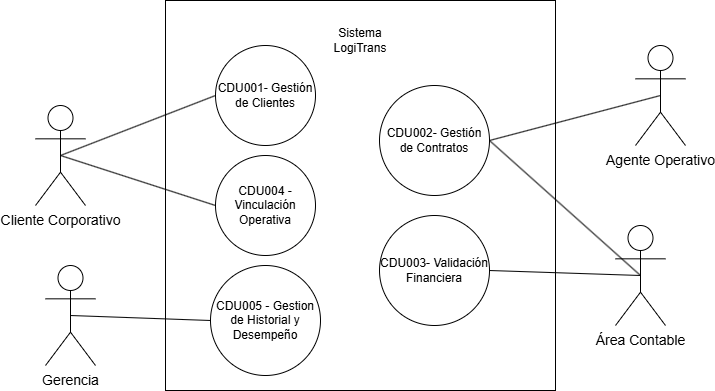
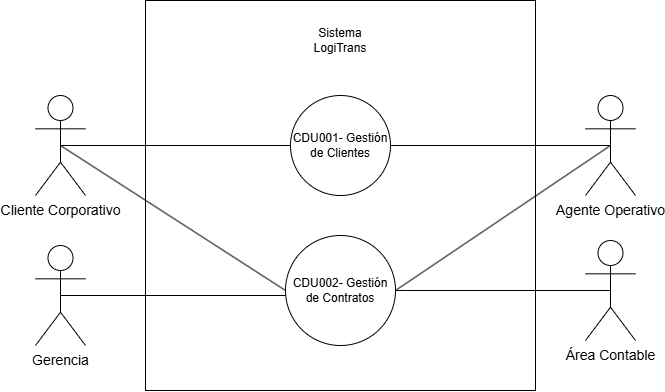
20204578: (Doc) CDu1

diff --git a/Documentation/Casos de Uso/cdu1.md b/Documentation/Casos de Uso/cdu1.md
@@ -1,119 +1,298 @@
 # 1. Descripción de actores de Gestión de Clientes y Contratos
 ![!\[alt text\](image.png)](../images/CDU1/actores.png)
 
-# caso de uso de alto nivel
+-------------------------------------------------------------------
+# Caso de Uso de Alto Nivel
 
 ![alt text](<../images/CDU1/dcu alto nivel.png>)
 
-# Primera descomposicion
+-------------------------------------------------------------------
+# Primera Descomposición
 ## Procesos Críticos Generales
 
-CDU001 – Gestión de Clientes
-CDU002 – Gestión de Contratos
-CDU003 – Validación Financiera
-CDU004 – Vinculación Operativa
-CDU005 – Gestión de Historial y Desempeño
+- **CDU001** – Gestión de Clientes
+- **CDU002** – Gestión de Contratos y Tarifas
+
+> **Nota:** Los procesos de Validación Financiera, Vinculación Operativa e Historial y Desempeño se modelan como casos de uso expandidos dentro de CDU002, ya que forman parte del ciclo de vida de un contrato y no constituyen procesos críticos independientes en la primera descomposición.
 
 ![alt text](<../images/CDU1/Primera descomposicion.png>)
 
-# Casos expandidos
+-------------------------------------------------------------------
 
-## CDU001 - Gestion de Clienes
+# Casos Expandidos
 
-CDU001.1 - Registrar clientes
-CDU001.2 - Consultar Clientes
-CDU001.3 - Modificar Cliente
-CDU001.4 - Gestionar Credenciales
-CDU001.5 - Bloquear / Desactivar Cliente
+## CDU001 – Gestión de Clientes
 
+- CDU001.1 – Registrar Cliente
+- CDU001.2 – Consultar Cliente
+- CDU001.3 – Modificar Cliente
+- CDU001.4 – Gestionar Credenciales
+- CDU001.5 – Bloquear / Desactivar Cliente
 
-## diagrama de expandidos para el CDU001.1
-![aqui se agrega diagrama](<../images/CDU1/CDU001.1 REGISTRAR CLIENTES.png>)
+-------------------------------------------------------------------
+## Diagrama de expandidos para el CDU001
 
-| Campo                 | Detalle                                                                                                                                                                                           |
-| --------------------- | ------------------------------------------------------------------------------------------------------------------------------------------------------------------------------------------------- |
-| **Nombre**            | Registrar Cliente                                                                                                                                                                                 |
-| **Código**            | CDU001.1                                                                                                                                                                                          |
-| **Actores**           | Agente Operativo                                                                                                                                                                                  |
-| **Descripción**       | Permite registrar en el sistema los datos fiscales, contactos clave y categoría de riesgo de un cliente corporativo.                                                                              |
-| **Precondiciones**    | El cliente no debe estar previamente registrado.                                                                                                                                                  |
-| **Postcondiciones**   | Cliente registrado correctamente o proceso cancelado.                                                                                                                                             |
-| **Flujo Principal**   | 1. Ingresar NIT y razón social.<br>2. Registrar contactos clave.<br>3. Asignar categoría de riesgo.<br>4. Validar información obligatoria.<br>5. Guardar datos.<br>6. Confirmar registro exitoso. |
-| **Flujos Alternos**   | **FA1:** NIT duplicado → Mostrar mensaje y cancelar.<br>**FA2:** Campos obligatorios vacíos → Solicitar corrección.                                                                               |
-| **Reglas de Negocio** | NIT único y válido.<br>Categoría de riesgo obligatoria.                                                                                                                                           |
-| **Reglas de Calidad** | Validación en tiempo real.<br>Tiempo de respuesta menor a 3 segundos.                                                                                                                             |
+> Este diagrama muestra todos los casos de uso expandidos del CDU001 con sus relaciones:
+> - **Agente Operativo** interactúa con: CDU001.1, CDU001.2, CDU001.3, CDU001.4
+> - **Cliente Corporativo** interactúa con: CDU001.2, CDU001.4
+> - **Área Contable** interactúa con: CDU001.2, CDU001.5
+> - **Gerencia** interactúa con: CDU001.2
+> - **Sistema** interactúa con: CDU001.5
+> - CDU001.1 `<<extend>>` → CDU001.4 Gestionar Credenciales
+> - CDU001.2 `<<extend>>` → CDU001.3 Modificar Cliente
+> - CDU001.2 `<<extend>>` → CDU001.5 Bloquear/Desactivar Cliente
 
+![Diagrama general CDU001](<../images/CDU1/CDU001 REGISTRAR CLIENTES.drawio.png>)
 
+-------------------------------------------------------------------
+## CDU001.1 – Registrar Cliente
 
-diagrama de expandidos para el CDU001.2
-![aqui se agrega diagrama](<../images/CDU1/CDU001.2 Registrar Clientes.png>)
+| Campo                 | Detalle |
+| --------------------- | ------- |
+| **Nombre**            | Registrar Cliente |
+| **Código**            | CDU001.1 |
+| **Actores**           | Agente Operativo |
+| **Descripción**       | Permite registrar en el sistema los datos fiscales, contactos clave y categoría de riesgo de un cliente corporativo (importadora, exportadora o comercio). Este registro centralizado elimina la necesidad de consultar múltiples hojas de cálculo y garantiza que todos los departamentos accedan a la misma información actualizada. |
+| **Precondiciones**    | El cliente no debe estar previamente registrado en el sistema. El Agente Operativo debe haber iniciado sesión. |
+| **Postcondiciones**   | Cliente registrado correctamente en el sistema, o proceso cancelado sin modificaciones. |
+| **Flujo Principal**   | 1. El Agente Operativo accede al módulo de registro de clientes.<br>2. Ingresa el NIT y razón social del cliente.<br>3. Registra los contactos clave del cliente.<br>4. Asigna la categoría de riesgo (capacidad de pago, riesgo de mercancía, riesgo en aduanas, lavado de dinero).<br>5. El sistema valida que todos los campos obligatorios estén completos.<br>6. El Agente Operativo confirma el registro presionando "Guardar".<br>7. El sistema almacena los datos y muestra confirmación de registro exitoso. |
+| **Flujos Alternos**   | **FA1:** El Agente Operativo no ingresa el NIT.<br>FA1.1 El sistema muestra notificación de campo obligatorio.<br>FA1.2 El Agente Operativo ingresa el NIT.<br>FA1.3 Se continúa con el flujo principal (3).<br><br>**FA2:** El NIT ingresado ya existe en el sistema.<br>FA2.1 El sistema muestra mensaje: "El NIT ya se encuentra registrado".<br>FA2.2 El Agente Operativo verifica el NIT ingresado.<br>FA2.3 El Agente Operativo corrige el NIT o cancela el proceso.<br>FA2.4 Si corrige, se continúa con el flujo principal (3).<br><br>**FA3:** La categoría de riesgo no fue asignada.<br>FA3.1 El sistema muestra notificación de campo obligatorio.<br>FA3.2 El Agente Operativo selecciona la categoría de riesgo correspondiente.<br>FA3.3 Se continúa con el flujo principal (5). |
+| **Reglas de Negocio** | El NIT debe ser único y válido dentro del sistema.<br>La categoría de riesgo es un campo obligatorio para completar el registro. |
+| **Reglas de Calidad** | El sistema debe validar los campos en tiempo real conforme el usuario los ingresa.<br>El tiempo de respuesta al guardar no debe exceder 3 segundos. |
 
-
-| Campo                 | Detalle                                                                                                     |
-| --------------------- | ----------------------------------------------------------------------------------------------------------- |
-| **Nombre**            | Consultar Cliente                                                                                           |
-| **Código**            | CDU001.2                                                                                                    |
-| **Actores**           | Agente Operativo, Área Contable, Gerencia                                                                   |
-| **Descripción**       | Permite visualizar la información registrada de un cliente corporativo.                                     |
-| **Precondiciones**    | Cliente previamente registrado.                                                                             |
-| **Postcondiciones**   | Información mostrada correctamente.                                                                         |
-| **Flujo Principal**   | 1. Ingresar criterio de búsqueda.<br>2. El sistema realiza consulta.<br>3. Mostrar información del cliente. |
-| **Flujos Alternos**   | **FA1:** Cliente no encontrado → Mostrar mensaje.                                                           |
-| **Reglas de Negocio** | Solo usuarios autorizados pueden consultar información.                                                     |
-| **Reglas de Calidad** | Tiempo de respuesta menor a 2 segundos.                                                                     |
-
-
-aqui se agrega grafico
-
-| Campo                 | Detalle                                                                                                   |
-| --------------------- | --------------------------------------------------------------------------------------------------------- |
-| **Nombre**            | Modificar Cliente                                                                                         |
-| **Código**            | CDU001.3                                                                                                  |
-| **Actores**           | Agente Operativo                                                                                          |
-| **Descripción**       | Permite actualizar datos fiscales, contactos o categoría de riesgo del cliente.                           |
-| **Precondiciones**    | Cliente registrado en el sistema.                                                                         |
-| **Postcondiciones**   | Información actualizada correctamente.                                                                    |
-| **Flujo Principal**   | 1. Consultar cliente.<br>2. Editar campos necesarios.<br>3. Validar cambios.<br>4. Guardar actualización. |
-| **Flujos Alternos**   | **FA1:** Datos inválidos → Solicitar corrección.                                                          |
-| **Reglas de Negocio** | No se permite modificar NIT si existe historial asociado.                                                 |
-| **Reglas de Calidad** | Registro de auditoría de modificaciones.                                                                  |
+-------------------------------------------------------------------
+## CDU001.2 – Consultar Cliente
 
 
+| Campo                 | Detalle |
+| --------------------- | ------- |
+| **Nombre**            | Consultar Cliente |
+| **Código**            | CDU001.2 |
+| **Actores**           | Agente Operativo, Cliente Corporativo, Área Contable, Gerencia |
+| **Descripción**       | Permite visualizar la información registrada de un cliente corporativo, incluyendo sus datos fiscales, contactos clave, categoría de riesgo y estado de cuenta. Cada actor puede acceder únicamente a la información que su rol le permite visualizar dentro de la plataforma. |
+| **Precondiciones**    | El cliente debe estar previamente registrado en el sistema. El actor debe haber iniciado sesión con credenciales válidas. |
+| **Postcondiciones**   | Información del cliente mostrada correctamente al actor solicitante. |
+| **Flujo Principal**   | 1. El actor accede al módulo de consulta de clientes.<br>2. Ingresa el criterio de búsqueda (NIT, razón social u otro).<br>3. El sistema realiza la consulta en la base de datos.<br>4. El sistema muestra la información del cliente según los permisos del actor.<br>5. El actor visualiza la información y finaliza la consulta. |
+| **Flujos Alternos**   | **FA1:** El cliente no es encontrado con el criterio ingresado.<br>FA1.1 El sistema muestra el mensaje: "No se encontraron resultados".<br>FA1.2 El actor verifica y corrige el criterio de búsqueda.<br>FA1.3 Se continúa con el flujo principal (3).<br><br>**FA2:** El actor no tiene permisos para visualizar la información solicitada.<br>FA2.1 El sistema muestra mensaje: "Acceso denegado. Permisos insuficientes".<br>FA2.2 El actor cierra el mensaje y regresa al menú principal. |
+| **Reglas de Negocio** | Solo usuarios autorizados y con el rol correspondiente pueden consultar la información del cliente.<br>La información financiera solo puede ser visualizada por el Área Contable y Gerencia. |
+| **Reglas de Calidad** | El tiempo de respuesta de la consulta no debe exceder 2 segundos.<br>Todo acceso a información de clientes debe quedar registrado en la bitácora de auditoría. |
+
+-------------------------------------------------------------------
+## CDU001.3 – Modificar Cliente
+
+
+| Campo                 | Detalle |
+| --------------------- | ------- |
+| **Nombre**            | Modificar Cliente |
+| **Código**            | CDU001.3 |
+| **Actores**           | Agente Operativo |
+| **Descripción**       | Permite actualizar los datos fiscales, contactos clave o categoría de riesgo de un cliente corporativo previamente registrado en el sistema, garantizando que la información se mantenga vigente y correcta para todos los departamentos. |
+| **Precondiciones**    | El cliente debe estar registrado en el sistema. El Agente Operativo debe haber iniciado sesión. |
+| **Postcondiciones**   | Información del cliente actualizada correctamente, o proceso cancelado sin cambios. |
+| **Flujo Principal**   | 1. El Agente Operativo consulta al cliente (CDU001.2).<br>2. Selecciona la opción "Editar" sobre el registro del cliente.<br>3. Modifica los campos necesarios (datos fiscales, contactos o categoría de riesgo).<br>4. El sistema valida los cambios ingresados.<br>5. El Agente Operativo confirma los cambios presionando "Guardar".<br>6. El sistema almacena las modificaciones y registra el evento en auditoría.<br>7. El sistema muestra confirmación de actualización exitosa. |
+| **Flujos Alternos**   | **FA1:** Los datos ingresados no son válidos.<br>FA1.1 El sistema muestra notificación indicando el campo con error.<br>FA1.2 El Agente Operativo corrige el dato indicado.<br>FA1.3 Se continúa con el flujo principal (4).<br><br>**FA2:** El Agente Operativo intenta modificar el NIT con historial asociado.<br>FA2.1 El sistema muestra mensaje: "El NIT no puede ser modificado porque tiene historial de contratos u órdenes asociadas".<br>FA2.2 El Agente Operativo cancela la modificación del NIT.<br>FA2.3 Se continúa con el flujo principal (3) para modificar otros campos permitidos. |
+| **Reglas de Negocio** | No se permite modificar el NIT si el cliente ya tiene contratos u órdenes de servicio asociadas.<br>Toda modificación debe quedar registrada en la bitácora de auditoría con fecha, hora y usuario que realizó el cambio. |
+| **Reglas de Calidad** | El sistema debe registrar auditoría de cada modificación realizada.<br>El tiempo de confirmación de cambios no debe exceder 3 segundos. |
+
+-------------------------------------------------------------------
+## CDU001.4 – Gestionar Credenciales
+
+
+| Campo                 | Detalle |
+| --------------------- | ------- |
+| **Nombre**            | Gestionar Credenciales |
+| **Código**            | CDU001.4 |
+| **Actores**           | Cliente Corporativo, Agente Operativo |
+| **Descripción**       | Permite generar, actualizar o recuperar las credenciales de acceso a la plataforma de un cliente corporativo, aplicando estrategias de protección y recuperación en caso de extravío o hurto de credenciales, garantizando que el acceso sea seguro y exclusivo del titular. |
+| **Precondiciones**    | El cliente debe estar registrado y activo en el sistema. |
+| **Postcondiciones**   | Credenciales generadas, actualizadas o recuperadas correctamente, o proceso cancelado. |
+| **Flujo Principal**   | 1. El actor accede al módulo de gestión de credenciales.<br>2. Selecciona la operación deseada (crear, actualizar o recuperar credenciales).<br>3. El sistema solicita validación de identidad del cliente.<br>4. El actor proporciona los datos de validación requeridos.<br>5. El sistema verifica la identidad del solicitante.<br>6. El sistema genera o actualiza las credenciales según la operación seleccionada.<br>7. El sistema notifica al cliente mediante correo electrónico registrado.<br>8. El proceso finaliza con confirmación exitosa. |
+| **Flujos Alternos**   | **FA1:** La validación de identidad falla.<br>FA1.1 El sistema muestra mensaje: "No fue posible verificar su identidad".<br>FA1.2 El actor puede reintentar ingresando los datos correctos.<br>FA1.3 Si falla tres veces, el sistema bloquea el proceso y notifica al Agente Operativo.<br>FA1.4 Se cancela el proceso.<br><br>**FA2:** La nueva contraseña no cumple la política de seguridad.<br>FA2.1 El sistema muestra los requisitos de seguridad que no se cumplen.<br>FA2.2 El actor ingresa una nueva contraseña que cumpla los requisitos.<br>FA2.3 Se continúa con el flujo principal (6). |
+| **Reglas de Negocio** | La contraseña debe cumplir la política de seguridad definida (mínimo 8 caracteres, combinación de letras, números y caracteres especiales).<br>Las credenciales solo pueden ser gestionadas por el titular o un Agente Operativo autorizado. |
+| **Reglas de Calidad** | Las credenciales deben almacenarse cifradas en la base de datos.<br>El envío de notificaciones de credenciales no debe exceder 30 segundos. |
+
+-------------------------------------------------------------------
+## CDU001.5 – Bloquear / Desactivar Cliente
+
+
+| Campo                 | Detalle |
+| --------------------- | ------- |
+| **Nombre**            | Bloquear o Desactivar Cliente |
+| **Código**            | CDU001.5 |
+| **Actores**           | Área Contable, Sistema |
+| **Descripción**       | Permite bloquear automáticamente o desactivar manualmente a un cliente corporativo que presente incumplimiento financiero, como facturas vencidas o límite de crédito excedido, impidiendo la generación de nuevas órdenes de servicio hasta que regularice su situación. |
+| **Precondiciones**    | El cliente debe tener facturas vencidas o haber alcanzado su límite de crédito aprobado. |
+| **Postcondiciones**   | Cliente bloqueado y sin posibilidad de generar nuevas órdenes de servicio, o cliente reactivado si regulariza su situación. |
+| **Flujo Principal**   | 1. El sistema detecta automáticamente un incumplimiento financiero del cliente.<br>2. El sistema cambia el estado del cliente a "Bloqueado".<br>3. El sistema registra el evento en la bitácora de auditoría con fecha, hora y motivo.<br>4. El sistema notifica al Área Contable y al cliente sobre el bloqueo.<br>5. El cliente queda inhabilitado para generar nuevas órdenes de servicio. |
+| **Flujos Alternos**   | **FA1:** El Área Contable desactiva manualmente a un cliente.<br>FA1.1 El Área Contable accede al perfil del cliente.<br>FA1.2 Selecciona la opción "Desactivar Cliente" e ingresa el motivo.<br>FA1.3 El sistema cambia el estado a "Inactivo" y registra el evento.<br>FA1.4 Se continúa con el flujo principal (4).<br><br>**FA2:** El cliente regulariza su deuda y solicita reactivación.<br>FA2.1 El Área Contable verifica que el cliente no tiene facturas vencidas ni límite excedido.<br>FA2.2 El Área Contable cambia el estado del cliente a "Activo".<br>FA2.3 El sistema registra la reactivación en auditoría y notifica al cliente.<br>FA2.4 El cliente queda habilitado para generar nuevas órdenes de servicio. |
+| **Reglas de Negocio** | No se permite generar órdenes de servicio si el cliente está bloqueado o inactivo.<br>El bloqueo automático se activa cuando el cliente presenta facturas vencidas o ha excedido su límite de crédito aprobado. |
+| **Reglas de Calidad** | Todo cambio de estado (bloqueo, desactivación o reactivación) debe registrarse en la bitácora con fecha, hora y usuario responsable.<br>La notificación al cliente debe enviarse en un máximo de 60 segundos tras el cambio de estado. |
+
+-------------------------------------------------------------------
+
+# Casos de Uso Expandidos de CDU002 – Gestión de Contratos y Tarifas
+
+- CDU002.1 – Crear Contrato
+- CDU002.2 – Modificar Contrato
+- CDU002.3 – Consultar Contrato
+- CDU002.4 – Parametrizar Tarifario
+- CDU002.5 – Aplicar Descuento Especial
+- CDU002.6 – Validar Vigencia y Capacidad
+- CDU002.7 – Vinculación Operativa Automática
+- CDU002.8 – Actualizar Historial y Desempeño
+
+## Diagrama de expandidos para el CDU002
+![alt text](../images/CDU1/CDU002.drawio.png)
+
+> Este diagrama muestra todos los casos de uso expandidos del CDU002 con sus relaciones:
+> - **Agente Operativo** interactúa con: CDU002.1, CDU002.2, CDU002.3, CDU002.5
+> - **Área Contable** interactúa con: CDU002.1, CDU002.2, CDU002.3, CDU002.4, CDU002.5, CDU002.6
+> - **Gerencia** interactúa con: CDU002.3, CDU002.8
+> - **Cliente Corporativo** interactúa con: CDU002.7
+> - **Sistema** interactúa con: CDU002.6, CDU002.7, CDU002.8
+> - CDU002.1 `<<include>>` → CDU002.4 Parametrizar Tarifario
+> - CDU002.1 `<<extend>>` → CDU002.5 Aplicar Descuento Especial
+> - CDU002.2 `<<extend>>` → CDU002.5 Aplicar Descuento Especial
+> - CDU002.1 `<<include>>` → CDU002.6 Validar Vigencia y Capacidad
+> - CDU002.6 `<<include>>` → CDU002.7 Vinculación Operativa Automática
+> - CDU002.7 `<<include>>` → CDU002.8 Actualizar Historial y Desempeño
+
+
+-------------------------------------------------------------------
+## CDU002.1 – Crear Contrato
+
+
+| Campo                 | Detalle |
+| --------------------- | ------- |
+| **Nombre**            | Crear Contrato Comercial |
+| **Código**            | CDU002.1 |
+| **Actores**           | Agente Operativo, Área Contable |
+| **Descripción**       | Permite generar un contrato digital para un cliente corporativo, definiendo las reglas de operación, condiciones financieras, rutas autorizadas, tipos de carga permitidos y parámetros tarifarios acordados. Este contrato es el respaldo legal para la prestación de cada servicio de transporte. |
+| **Precondiciones**    | El cliente debe estar previamente registrado y activo en el sistema. El tarifario debe estar parametrizado por el Área Contable. |
+| **Postcondiciones**   | Contrato creado y asociado al cliente con condiciones financieras y tarifarias definidas, o proceso cancelado sin cambios. |
+| **Flujo Principal**   | 1. El Agente Operativo selecciona al cliente registrado.<br>2. Define el límite de crédito y los plazos de pago (15, 30 o 45 días).<br>3. Registra las rutas autorizadas para el contrato.<br>4. Define los tipos de carga permitidos.<br>5. El sistema vincula el tarifario parametrizado por el Área Contable.<br>6. El Agente Operativo valida las condiciones financieras ingresadas.<br>7. Registra el contrato en el sistema.<br>8. El sistema almacena el contrato y muestra confirmación de creación exitosa. |
+| **Flujos Alternos**   | **FA1:** El cliente está inactivo o bloqueado.<br>FA1.1 El sistema muestra mensaje: "No es posible crear un contrato. El cliente se encuentra inactivo o bloqueado".<br>FA1.2 El Agente Operativo verifica el estado del cliente.<br>FA1.3 Si el estado no puede corregirse, se cancela el proceso.<br><br>**FA2:** Las condiciones financieras ingresadas no son válidas.<br>FA2.1 El sistema indica los campos con error o datos fuera de rango.<br>FA2.2 El Agente Operativo corrige las condiciones financieras.<br>FA2.3 Se continúa con el flujo principal (6).<br><br>**FA3:** Se desea aplicar un descuento especial.<br>FA3.1 El Agente Operativo selecciona la opción de descuento especial.<br>FA3.2 Ingresa el porcentaje o monto del descuento acordado.<br>FA3.3 El sistema registra el descuento asociado al contrato.<br>FA3.4 Se continúa con el flujo principal (7). |
+| **Reglas de Negocio** | El cliente debe estar activo para poder crear un contrato.<br>Debe definirse obligatoriamente el límite de crédito y el plazo de pago.<br>El tarifario debe estar previamente parametrizado por el Área Contable antes de formalizar el contrato. |
+| **Reglas de Calidad** | El contrato debe almacenarse en formato digital seguro.<br>El proceso de confirmación no debe exceder 5 segundos.<br>Debe registrarse auditoría de creación con fecha, hora y usuario responsable. |
+
+-------------------------------------------------------------------
+## CDU002.2 – Modificar Contrato
+
+
+| Campo                 | Detalle |
+| --------------------- | ------- |
+| **Nombre**            | Modificar Contrato Comercial |
+| **Código**            | CDU002.2 |
+| **Actores**           | Agente Operativo, Área Contable |
+| **Descripción**       | Permite actualizar las condiciones de un contrato previamente registrado, incluyendo límites de crédito, plazos de pago, rutas autorizadas, tipos de carga y condiciones tarifarias acordadas con el cliente, garantizando que el contrato refleje en todo momento las condiciones vigentes de operación. |
+| **Precondiciones**    | El contrato debe estar previamente creado y asociado a un cliente activo. |
+| **Postcondiciones**   | Contrato actualizado con las nuevas condiciones registradas en el sistema, o proceso cancelado sin cambios. |
+| **Flujo Principal**   | 1. El Agente Operativo busca el contrato existente.<br>2. El sistema muestra la información actual del contrato.<br>3. El Agente Operativo modifica las condiciones financieras o operativas requeridas.<br>4. El sistema valida los cambios realizados.<br>5. El Agente Operativo confirma los cambios presionando "Guardar".<br>6. El sistema almacena las modificaciones y registra el evento en auditoría.<br>7. El sistema muestra confirmación de actualización exitosa. |
+| **Flujos Alternos**   | **FA1:** El contrato no es encontrado.<br>FA1.1 El sistema muestra mensaje: "No se encontró el contrato buscado".<br>FA1.2 El Agente Operativo verifica y corrige el criterio de búsqueda.<br>FA1.3 Se continúa con el flujo principal (1).<br><br>**FA2:** Los datos modificados no son válidos.<br>FA2.1 El sistema indica el campo con error.<br>FA2.2 El Agente Operativo corrige el dato indicado.<br>FA2.3 Se continúa con el flujo principal (4).<br><br>**FA3:** Se desea aplicar un descuento especial durante la modificación.<br>FA3.1 El Agente Operativo selecciona la opción de descuento especial.<br>FA3.2 Ingresa el porcentaje o monto del descuento.<br>FA3.3 El sistema registra el descuento asociado al contrato.<br>FA3.4 Se continúa con el flujo principal (5). |
+| **Reglas de Negocio** | Solo se pueden modificar contratos activos.<br>Las condiciones financieras deben cumplir las políticas internas de la empresa.<br>Las rutas y tipos de carga deben estar previamente autorizados en el sistema. |
+| **Reglas de Calidad** | El sistema debe registrar historial de cambios en auditoría con fecha, hora y usuario.<br>La confirmación de actualización no debe exceder 5 segundos. |
+
+-------------------------------------------------------------------
+## CDU002.3 – Consultar Contrato
+
+
+| Campo                 | Detalle |
+| --------------------- | ------- |
+| **Nombre**            | Consultar Contrato Comercial |
+| **Código**            | CDU002.3 |
+| **Actores**           | Agente Operativo, Área Contable, Gerencia |
+| **Descripción**       | Permite visualizar la información de un contrato previamente registrado, incluyendo condiciones financieras, límites de crédito, rutas autorizadas, tipos de carga y parámetros tarifarios asociados al cliente. Cada actor accede únicamente a la información que su rol le permite consultar. |
+| **Precondiciones**    | El contrato debe estar previamente registrado en el sistema. El actor debe haber iniciado sesión con credenciales válidas. |
+| **Postcondiciones**   | Información del contrato mostrada correctamente al actor solicitante. |
+| **Flujo Principal**   | 1. El actor accede al módulo de consulta de contratos.<br>2. Ingresa los criterios de búsqueda (NIT del cliente, número de contrato u otro).<br>3. El sistema localiza el contrato en la base de datos.<br>4. El sistema muestra la información detallada del contrato según los permisos del actor.<br>5. El actor visualiza la información y finaliza la consulta. |
+| **Flujos Alternos**   | **FA1:** El contrato no es encontrado con el criterio ingresado.<br>FA1.1 El sistema muestra mensaje: "No se encontraron contratos con los criterios indicados".<br>FA1.2 El actor corrige el criterio de búsqueda.<br>FA1.3 Se continúa con el flujo principal (3).<br><br>**FA2:** El actor no tiene permisos para visualizar la información solicitada.<br>FA2.1 El sistema muestra mensaje: "Acceso denegado. Permisos insuficientes".<br>FA2.2 El actor cierra el mensaje y regresa al menú principal. |
+| **Reglas de Negocio** | Solo usuarios autorizados con el rol correspondiente pueden consultar los contratos.<br>La información financiera del contrato solo puede ser visualizada por el Área Contable y Gerencia. |
+| **Reglas de Calidad** | La consulta no debe exceder 3 segundos de tiempo de respuesta.<br>Todo acceso a contratos debe registrarse en la bitácora de auditoría. |
+
+-------------------------------------------------------------------
+## CDU002.4 – Parametrizar Tarifario
+
+
+| Campo                 | Detalle |
+| --------------------- | ------- |
+| **Nombre**            | Parametrizar Tarifario |
+| **Código**            | CDU002.4 |
+| **Actores**           | Área Contable |
+| **Descripción**       | Permite al Área Contable configurar y actualizar los parámetros del tarifario del sistema, incluyendo los límites de peso (tonelaje) y los montos de cobro por kilómetro para cada tipo de unidad de transporte. Este tarifario es la base para calcular el costo de cualquier servicio de transporte contratado. |
+| **Precondiciones**    | El usuario del Área Contable debe haber iniciado sesión con permisos de configuración de tarifas. |
+| **Postcondiciones**   | Tarifario actualizado correctamente en el sistema y disponible para la generación de contratos y órdenes de servicio, o proceso cancelado sin cambios. |
+| **Flujo Principal**   | 1. El Área Contable accede al módulo de parametrización de tarifas.<br>2. Selecciona el tipo de unidad a configurar (Unidad Ligera, Camión Pesado o Cabezal/Tráiler).<br>3. Ingresa o actualiza el límite de peso (tonelaje) permitido para el tipo de unidad.<br>4. Ingresa o actualiza el monto base de cobro por kilómetro.<br>5. El sistema valida que los valores estén dentro de los rangos permitidos.<br>6. El Área Contable confirma los cambios presionando "Guardar".<br>7. El sistema almacena el tarifario actualizado y registra el evento en auditoría.<br>8. El sistema muestra confirmación de parametrización exitosa. |
+| **Flujos Alternos**   | **FA1:** Los valores ingresados están fuera del rango permitido.<br>FA1.1 El sistema muestra mensaje indicando el rango válido para el campo.<br>FA1.2 El Área Contable corrige el valor ingresado.<br>FA1.3 Se continúa con el flujo principal (5).<br><br>**FA2:** Se intenta guardar sin completar todos los campos obligatorios.<br>FA2.1 El sistema muestra notificación de campo obligatorio pendiente.<br>FA2.2 El Área Contable completa el campo requerido.<br>FA2.3 Se continúa con el flujo principal (5). |
+| **Reglas de Negocio** | Los rangos de referencia son: Unidad Ligera hasta 3.5 Ton a Q8.00/km, Camión Pesado entre 10-12 Ton a Q12.50/km, Cabezal/Tráiler desde 22 Ton a Q18.00/km. Estos valores son configurables.<br>Solo el Área Contable tiene permisos para modificar el tarifario.<br>Cualquier cambio en el tarifario afecta únicamente los contratos nuevos o modificados, no los contratos vigentes ya firmados. |
+| **Reglas de Calidad** | El sistema debe registrar en auditoría cada cambio al tarifario con fecha, hora y usuario responsable.<br>La confirmación de cambios no debe exceder 3 segundos. |
+
+-------------------------------------------------------------------
+## CDU002.5 – Aplicar Descuento Especial
+
+
+| Campo                 | Detalle |
+| --------------------- | ------- |
+| **Nombre**            | Aplicar Descuento Especial |
+| **Código**            | CDU002.5 |
+| **Actores**           | Agente Operativo, Área Contable |
+| **Descripción**       | Permite registrar un descuento especial negociado con el cliente durante la creación o modificación de un contrato comercial. Este descuento se aplica sobre la tarifa base del servicio y queda vinculado al contrato de forma permanente hasta su modificación o vencimiento. |
+| **Precondiciones**    | Debe existir un contrato en proceso de creación o modificación activa. El tarifario debe estar previamente parametrizado. |
+| **Postcondiciones**   | Descuento especial registrado y asociado al contrato del cliente, o proceso cancelado sin cambios. |
+| **Flujo Principal**   | 1. El Agente Operativo selecciona la opción "Aplicar Descuento Especial" durante la creación o modificación del contrato.<br>2. El sistema muestra la tarifa base actual del contrato.<br>3. El Agente Operativo ingresa el porcentaje o monto del descuento negociado.<br>4. El sistema calcula la tarifa resultante con el descuento aplicado.<br>5. El Agente Operativo revisa el resultado y confirma el descuento.<br>6. El sistema registra el descuento vinculado al contrato.<br>7. El sistema muestra confirmación de descuento aplicado exitosamente. |
+| **Flujos Alternos**   | **FA1:** El descuento ingresado supera el porcentaje máximo permitido por política interna.<br>FA1.1 El sistema muestra mensaje: "El descuento ingresado supera el límite permitido".<br>FA1.2 El Agente Operativo solicita autorización al Área Contable.<br>FA1.3 El Área Contable aprueba o rechaza el descuento.<br>FA1.4 Si es aprobado, se continúa con el flujo principal (5). Si es rechazado, se cancela el descuento.<br><br>**FA2:** El Agente Operativo ingresa un valor de descuento inválido (negativo o no numérico).<br>FA2.1 El sistema muestra notificación de valor inválido.<br>FA2.2 El Agente Operativo corrige el valor ingresado.<br>FA2.3 Se continúa con el flujo principal (4). |
+| **Reglas de Negocio** | El descuento especial debe ser autorizado por el Área Contable si supera el porcentaje máximo definido por política interna.<br>El descuento debe quedar registrado explícitamente en el contrato como condición financiera acordada. |
+| **Reglas de Calidad** | El sistema debe calcular y mostrar automáticamente la tarifa resultante al ingresar el descuento.<br>El registro del descuento debe quedar en auditoría con fecha, hora y usuario responsable. |
+
+-------------------------------------------------------------------
+## CDU002.6 – Validar Vigencia y Capacidad
 
 
 
-agraegar diagrama aqui
+| Campo                 | Detalle |
+| --------------------- | ------- |
+| **Nombre**            | Validar Vigencia y Capacidad del Contrato |
+| **Código**            | CDU002.6 |
+| **Actores**           | Sistema, Área Contable |
+| **Descripción**       | Permite verificar de forma activa que el contrato de un cliente se encuentre vigente y que las condiciones de crédito estén al día antes de autorizar cualquier operación. Si se detecta incumplimiento financiero o vencimiento del contrato, el sistema bloquea automáticamente la generación de nuevas órdenes de servicio. |
+| **Precondiciones**    | El cliente debe tener un contrato registrado en el sistema. Debe existir una solicitud de operación pendiente de autorización. |
+| **Postcondiciones**   | Operación autorizada si el contrato está vigente y el cliente cumple las condiciones de crédito, o cliente bloqueado si presenta incumplimiento. |
+| **Flujo Principal**   | 1. El sistema recibe una solicitud de generación de orden de servicio.<br>2. El sistema verifica que el contrato del cliente esté vigente (fecha de inicio y fin).<br>3. El sistema verifica que el cliente no haya excedido su límite de crédito.<br>4. El sistema verifica que los plazos de pago del cliente estén al día.<br>5. Si todas las validaciones son exitosas, la operación es autorizada.<br>6. El sistema registra la validación en auditoría. |
+| **Flujos Alternos**   | **FA1:** El contrato del cliente está vencido.<br>FA1.1 El sistema bloquea la operación.<br>FA1.2 El sistema notifica al Área Contable y al cliente sobre el vencimiento del contrato.<br>FA1.3 El Área Contable gestiona la renovación del contrato (CDU002.2).<br>FA1.4 Una vez renovado, se continúa con el flujo principal (2).<br><br>**FA2:** El cliente ha excedido su límite de crédito o tiene facturas vencidas.<br>FA2.1 El sistema activa el bloqueo automático del cliente (CDU001.5).<br>FA2.2 El sistema notifica al Área Contable y al cliente.<br>FA2.3 El cliente queda inhabilitado para nuevas órdenes hasta regularizar su situación. |
+| **Reglas de Negocio** | No se puede autorizar una orden de servicio si el contrato está vencido.<br>No se puede autorizar una orden si el cliente ha excedido su límite de crédito o tiene facturas vencidas.<br>Los plazos de pago aceptados son 15, 30 o 45 días según lo acordado en el contrato. |
+| **Reglas de Calidad** | La validación debe ejecutarse automáticamente en menos de 2 segundos al momento de la solicitud.<br>Todo resultado de validación debe registrarse en la bitácora de auditoría. |
+
+-------------------------------------------------------------------
+## CDU002.7 – Vinculación Operativa Automática
 
 
 
+| Campo                 | Detalle |
+| --------------------- | ------- |
+| **Nombre**            | Vinculación Operativa Automática |
+| **Código**            | CDU002.7 |
+| **Actores**           | Sistema, Cliente Corporativo |
+| **Descripción**       | Al momento de recibir una solicitud de carga, el sistema vincula automáticamente la orden de servicio con el contrato correspondiente del cliente, asignando el precio del servicio y los requisitos de transporte sin intervención manual del personal operativo, eliminando la negociación de tarifas en cada operación. |
+| **Precondiciones**    | El cliente debe tener un contrato vigente y activo. La validación de vigencia y capacidad (CDU002.6) debe haber sido exitosa. |
+| **Postcondiciones**   | Orden de servicio vinculada al contrato correspondiente con tarifa y requisitos asignados automáticamente. |
+| **Flujo Principal**   | 1. El Cliente Corporativo genera una solicitud de orden de servicio.<br>2. El sistema identifica el contrato vigente asociado al cliente.<br>3. El sistema asigna automáticamente la tarifa correspondiente según el tipo de carga y ruta solicitada.<br>4. El sistema verifica que la ruta solicitada esté autorizada en el contrato.<br>5. El sistema verifica que el tipo de carga esté dentro de los permitidos por el contrato.<br>6. El sistema vincula la orden al contrato y confirma la asignación automática.<br>7. La orden queda lista para el proceso de planificación y asignación de recursos. |
+| **Flujos Alternos**   | **FA1:** La ruta solicitada no está autorizada en el contrato del cliente.<br>FA1.1 El sistema muestra mensaje: "La ruta solicitada no está incluida en su contrato vigente".<br>FA1.2 El Cliente Corporativo contacta al Agente Operativo para gestionar la modificación del contrato.<br>FA1.3 Se cancela la orden hasta que el contrato sea actualizado.<br><br>**FA2:** El tipo de carga solicitado no está permitido en el contrato.<br>FA2.1 El sistema muestra mensaje: "El tipo de carga no está autorizado en su contrato".<br>FA2.2 El Cliente Corporativo contacta al Agente Operativo para gestionar la ampliación del contrato.<br>FA2.3 Se cancela la orden hasta que el contrato sea actualizado. |
+| **Reglas de Negocio** | Solo se pueden procesar órdenes de servicio para rutas y tipos de carga autorizados en el contrato vigente del cliente.<br>La tarifa asignada debe corresponder al tarifario parametrizado y las condiciones del contrato, incluyendo descuentos especiales. |
+| **Reglas de Calidad** | La vinculación automática debe ejecutarse en menos de 3 segundos.<br>El sistema no debe requerir intervención manual del personal operativo para asignar tarifas en operaciones estándar. |
 
-| Campo                 | Detalle                                                                                                                       |
-| --------------------- | ----------------------------------------------------------------------------------------------------------------------------- |
-| **Nombre**            | Gestionar Credenciales                                                                                                        |
-| **Código**            | CDU001.4                                                                                                                      |
-| **Actores**           | Cliente Corporativo, Agente Operativo                                                                                         |
-| **Descripción**       | Permite generar, actualizar o recuperar credenciales de acceso a la plataforma.                                               |
-| **Precondiciones**    | Cliente registrado.                                                                                                           |
-| **Postcondiciones**   | Credenciales generadas o actualizadas correctamente.                                                                          |
-| **Flujo Principal**   | 1. Solicitar creación o recuperación.<br>2. Validar identidad.<br>3. Generar nuevas credenciales.<br>4. Notificar al cliente. |
-| **Flujos Alternos**   | **FA1:** Validación fallida → Cancelar proceso.                                                                               |
-| **Reglas de Negocio** | Contraseña debe cumplir política de seguridad.                                                                                |
-| **Reglas de Calidad** | Credenciales almacenadas cifradas.                                                                                            |
-
-
-
-diagrama agregar aqui
+-------------------------------------------------------------------
+## CDU002.8 – Actualizar Historial y Desempeño
 
 
-| Campo                 | Detalle                                                                                               |
-| --------------------- | ----------------------------------------------------------------------------------------------------- |
-| **Nombre**            | Bloquear o Desactivar Cliente                                                                         |
-| **Código**            | CDU001.5                                                                                              |
-| **Actores**           | Área Contable, Sistema                                                                                |
-| **Descripción**       | Permite bloquear automáticamente o desactivar manualmente a un cliente por incumplimiento financiero. |
-| **Precondiciones**    | Cliente con facturas vencidas o límite de crédito excedido.                                           |
-| **Postcondiciones**   | Cliente bloqueado y sin posibilidad de generar nuevas órdenes.                                        |
-| **Flujo Principal**   | 1. Detectar incumplimiento.<br>2. Cambiar estado a bloqueado.<br>3. Registrar evento en auditoría.    |
-| **Flujos Alternos**   | **FA1:** Cliente regulariza deuda → Reactivar estado activo.                                          |
-| **Reglas de Negocio** | No se permite generar órdenes si el cliente está bloqueado.                                           |
-| **Reglas de Calidad** | El cambio de estado debe registrarse en bitácora.                                                     |
+
+| Campo                 | Detalle |
+| --------------------- | ------- |
+| **Nombre**            | Actualizar Historial y Desempeño del Cliente |
+| **Código**            | CDU002.8 |
+| **Actores**           | Sistema, Gerencia |
+| **Descripción**       | Al cierre de cada servicio de transporte, el sistema actualiza automáticamente el historial del cliente, registrando el volumen de carga movida, puntualidad en pagos y siniestralidad. Esta información proporciona a la Gerencia un tablero de control real para identificar contratos rentables y detectar clientes que requieren renegociación de condiciones. |
+| **Precondiciones**    | La orden de servicio debe haber sido completada y cerrada administrativamente. |
+| **Postcondiciones**   | Historial del cliente actualizado con los indicadores del servicio finalizado y disponible para consulta gerencial. |
+| **Flujo Principal**   | 1. El sistema detecta el cierre de una orden de servicio.<br>2. El sistema registra el volumen de carga movida en el historial del cliente.<br>3. El sistema actualiza el indicador de puntualidad de pagos según el comportamiento del cliente.<br>4. El sistema registra cualquier incidente o siniestro ocurrido durante el servicio.<br>5. Los datos quedan disponibles en el tablero de control gerencial.<br>6. La Gerencia puede consultar los indicadores actualizados para la toma de decisiones. |
+| **Flujos Alternos**   | **FA1:** La orden cerrada presenta datos incompletos para el historial.<br>FA1.1 El sistema marca los campos incompletos y notifica al Agente Operativo.<br>FA1.2 El Agente Operativo completa la información faltante.<br>FA1.3 Se continúa con el flujo principal (2). |
+| **Reglas de Negocio** | El historial debe actualizarse automáticamente al cierre de cada orden de servicio sin intervención manual.<br>Los datos de historial son de solo lectura para la Gerencia; no pueden ser modificados directamente. |
+| **Reglas de Calidad** | La actualización del historial debe completarse en menos de 5 segundos tras el cierre de la orden.<br>Los indicadores del tablero gerencial deben reflejar los datos actualizados en tiempo real. |
